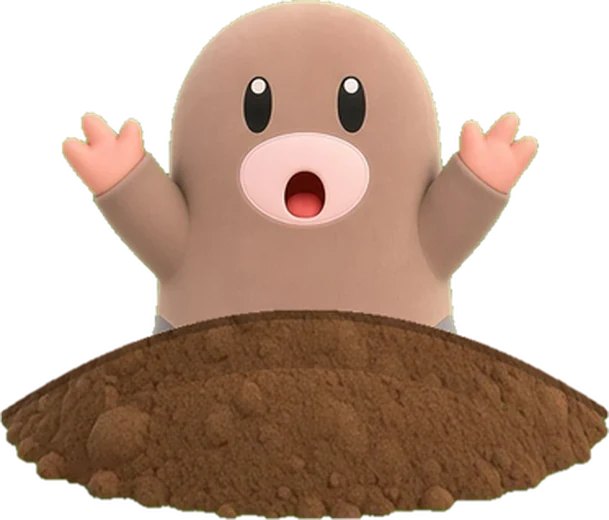
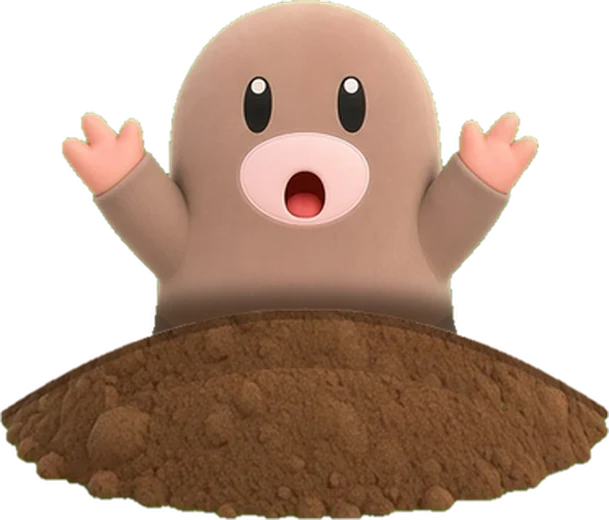
pincopop v1.4: LA tab (14 clips: LA cafés, Christmas/New Year 2026-27 events, Sawtelle Japantown), verified dates; Mogu mound contact shadow; k10 text, LA backgrounds edited from existing original art

Changed region(s): [[0.2496, 0.5231, 0.7488, 0.6462]]

diff --git a/pincopop/js/clips_la.js b/pincopop/js/clips_la.js
@@ -1,0 +1,165 @@
+'use strict';
+// LA tab (v1.4): local LA cafés, Christmas / New Year 2026–27 events and Sawtelle Japantown spots.
+// Every date / address / hour below was checked on the official page on 2026-11-23 (JST); see the v1.4 report for sources.
+// No prices, no ratings. Each clip shows the "check the official site" note (clip.note). Original art, no logos.
+window.CLIPS=window.CLIPS||[];
+const LAN='#0b1534/#3a1d5e',LAS='#fff4e0/#ffd9b8',LAC='#fff6ec/#f3e4d2';
+CLIPS.push(
+// la01 COUNTDOWN: 4 LA holiday light nights (glow)
+{id:'la01',cat:'la',by:'bronny',song:'xmas',seed:5001,bpm:108,likes:226000,cm:9400,look:'glow',note:1,
+ cap:['4 LA holiday light nights to save this season 🎄🌴 #losangeles #holidaylights #LAchristmas','この冬保存したいLAのイルミ4選🎄🌴 #ロサンゼルス #イルミネーション'],
+ snd:['Palm Tree Lights Countdown','ヤシの木イルミ・カウントダウン'],
+ com:[['pinco','#1 is my whole weekend 🛥💗','1位で週末決まり🛥💗'],['prof','Dates match the official pages. Approved.','日程は公式どおり。承認。']],
+ shots:[
+ {d:5,bg:'la_lights',cam:[1.1,1.02,.5,.5,.45,.5],a:[['c_bronny_3',.5,.9,.46,'bob',{in:'pop'}]],fx:[['sparkle',0,5,{x:.5,y:.35,r:.3}]],tx:[[0,5,'4 LA holiday light nights 🎄🌴','LAのイルミ4選 🎄🌴','big',.17]],sx:[[0,'bells']]},
+ {d:6,bg:'la_lights',tr:'whip',cam:[1,1.1,.5,.5,.5,.45],a:[['c_pinco_2',.74,.9,.38,'idle']],fx:[['bokeh',0,6,{cols:['#ffd88a','#ff9ad5']}]],tx:[[0,6,'4','4','num',.2,{x:.25}],[.4,6,'📍 L.A. Zoo Lights','📍 L.A. Zoo Lights（ロサンゼルス動物園）','loc',.36,{x:.45}],[1.2,6,'select nights Nov 20 – Jan 10','11/20〜1/10の指定日の夜','tag',.46]],sx:[[0,'whoosh'],[.4,'pop']]},
+ {d:6,bg:'la_lights',tr:'whip',cam:[1.2,1.25,.7,.3,.4,.4],a:[['c_pooh_1',.72,.9,.38,'bob']],fx:[['sparkle',0,6,{x:.4,y:.45,r:.2}]],tx:[[0,6,'3','3','num',.2,{x:.25}],[.4,6,'📍 Enchanted · Descanso Gardens','📍 デスカンソ・ガーデンズ「Enchanted」','loc',.36,{x:.45}],[1.2,6,'10th year! Nov 22 – Jan 9','10周年！11/22〜1/9','tag',.46]],sx:[[0,'whoosh'],[.4,'pop']]},
+ {d:6,bg:'la_harbor',tr:'whip',cam:[1,1.08,.5,.5,.5,.55],a:[['c_bean_1',.72,.9,.38,'bob']],fx:[['stars',0,6]],tx:[[0,6,'2','2','num',.2,{x:.25}],[.4,6,'📍 Harbor Glow · West Harbor, San Pedro','📍 ハーバー・グロウ（サンペドロ）','loc',.36,{x:.45}],[1.2,6,'nightly Nov 20 – Jan 3','11/20〜1/3 毎晩','tag',.46]],sx:[[0,'whoosh'],[.4,'pop']]},
+ {d:7,bg:'la_harbor',tr:'zoom',cam:[1,1.1,.5,.5,.5,.45],a:[['c_bronny_1',.3,.9,.4,'hop'],['c_pinco_1',.72,.9,.4,'hop']],fx:[['sparkle',0,7,{x:.5,y:.3,r:.3}],['confetti',1,7]],tx:[[0,7,'1','1','num',.2,{x:.25}],[.4,7,'📍 Marina del Rey Holiday Boat Parade','📍 マリナ・デル・レイ ホリデー・ボートパレード','loc',.36,{x:.45,s:.9}],[1.2,7,'Sat Dec 12 · starts with a light show','12/12(土)・ライトショーで開幕','tag',.46]],sx:[[0,'whoosh'],[.4,'pop'],[1.2,'cheer']]}
+]},
+// la02 NIGHT VLOG: L.A. Zoo Lights (REC, typewriter)
+{id:'la02',cat:'la',also:['parent'],by:'pooping',song:'lofi',seed:5002,bpm:84,likes:188000,cm:7100,look:'night',note:1,
+ cap:['family night at L.A. Zoo Lights 🦋✨ plants, pollinators + Ice Age giants in lights #lazoolights #losangeles','家族でL.A. Zoo Lightsへ🦋✨ 植物・虫・氷河期の巨獣が光る #ロサンゼルス #イルミネーション'],
+ snd:['Glow Walk','光のさんぽ'],
+ com:[['max','I would like to meet the Ice Age giants 🐶','氷河期の巨獣に会いたい🐶'],['pinco','saving the closed dates 🙏','休みの日も保存🙏']],
+ shots:[
+ {d:5,bg:'la_lights',cam:[1.15,1.05,.5,.5,.45,.45],a:[['pooping_parent_0',.5,.9,.46,'bob',{in:'pop'}]],fx:[['rec',0,5]],tx:[[0,5,'family night at L.A. Zoo Lights 🦋','家族でL.A. Zoo Lights 🦋','big',.27]],sx:[[0,'shutter']]},
+ {d:6,bg:'la_lights',tr:'cut',cam:[1.3,1.3,.6,.4,.5,.5],a:[['babies_1',.5,.84,.3,'idle']],fx:[['sparkle',0,6,{x:.5,y:.35,r:.25}]],tx:[[0,6,'2026 theme: plants, pollinators and Ice Age giants — all in light','2026年のテーマは植物・ポリネーター・氷河期の巨獣、ぜんぶ光で','type',.22,{cps:24}]],sx:[[0,'type']]},
+ {d:6,bg:'la_lights',tr:'cut',cam:[1.2,1.2,.35,.6,.5,.5],a:[['pooping_parent_1',.5,.9,.44,'talk']],tx:[[0,6,'select nights Nov 20 – Jan 10 · most people spend 60–90 min','11/20〜1/10の指定日・所要時間はだいたい60〜90分','type',.22,{cps:24}]],sx:[[0,'type']]},
+ {d:6,bg:'la_lights',tr:'cut',a:[['pooping_parent_2',.5,.9,.44,'idle']],fx:[['snow',0,6,{n:20}]],tx:[[0,6,'closed: Nov 26, 30 · Dec 1, 7, 14–16, 24, 25, 31 · Jan 4–7','休み：11/26・30、12/1・7・14〜16・24・25・31、1/4〜7','type',.22,{cps:28}]],sx:[[0,'type']]},
+ {d:5,bg:'la_lights',tr:'zoom',a:[['pooping_parent_0',.35,.9,.42,'bob'],['babies_1',.72,.86,.26,'hop']],fx:[['hearts',0,5,{x:.6,y:.5,n:8}]],tx:[[0,5,'quieter Sensory Inclusive night: Tue Dec 8 💙','音や混雑を控えめにした夜：12/8(火) 💙','cap',.22,{wps:3}]],sx:[[0,'aww']]}
+]},
+// la03 ASMR: Enchanted at Descanso Gardens
+{id:'la03',cat:'la',by:'pinco',song:'asmr',seed:5003,bpm:66,likes:154000,cm:5200,look:'asmr',note:1,
+ cap:['whisper tour: Enchanted at Descanso Gardens, 10th year 🌸✨ #descanso #enchanted #asmr','ささやきツアー：デスカンソ・ガーデンズ「Enchanted」10周年🌸✨ #ASMR'],
+ snd:['Forest of Light (whisper)','光の森（ささやき）'],
+ com:[['bean','the koi!!! (quietly)','鯉！！！（小声）'],['asmon','the laser snowfall in California. respect.','カリフォルニアでレーザーの雪。敬意。']],
+ shots:[
+ {d:6,bg:'la_lights',cam:[1.2,1.1,.5,.5,.5,.5],a:[['c_pinco_0',.5,.9,.44,'sway']],fx:[['bokeh',0,6,{cols:['#ffb0d8','#c9a8ff']}]],tx:[[0,6,'🎧 ASMR','🎧 ASMR','pill',.16,{x:.15,s:.7}],[.5,6,'Enchanted at Descanso Gardens, 10 years 🌸','デスカンソ・ガーデンズ「Enchanted」10周年 🌸','cap',.25,{wps:2}]],sx:[[0,'chime']]},
+ {d:7,bg:'la_lights',tr:'cut',cam:[1.4,1.5,.65,.4,.6,.4],fx:[['sparkle',0,7,{x:.5,y:.4,r:.3}]],tx:[[0,7,'new this year: a laser light show with a “snowfall” finale','今年の新作：「雪」がフィナーレのレーザーショー','cap',.25,{wps:2}]],sx:[[0,'sparkle']]},
+ {d:7,bg:'la_lights',tr:'cut',cam:[1.3,1.3,.3,.7,.4,.6],a:[['c_pinco_4',.6,.9,.42,'idle']],fx:[['glow',0,7,{x:.4,y:.6,c:'rgba(255,170,120,.6)'}]],tx:[[0,7,'Giant Koi for the Japanese Garden’s 60th anniversary 🎏','日本庭園60周年を祝う「ジャイアント・コイ」🎏','cap',.25,{wps:2}]],sx:[[0,'chime']]},
+ {d:6,bg:'la_lights',tr:'cut',a:[['c_pinco_2',.5,.9,.44,'sway']],fx:[['stars',0,6]],tx:[[0,6,'Nov 22 – Jan 9 · Holiday Market Dec 2–6 ✨','11/22〜1/9・ホリデーマーケットは12/2〜6 ✨','cap',.25,{wps:2}]],sx:[[0,'chime']]}
+]},
+// la04 POV / duet-style: Harbor Glow
+{id:'la04',cat:'la',by:'bean',song:'synth',seed:5004,bpm:100,likes:132000,cm:4300,note:1,
+ cap:['POV: you said “let’s go see boats” and it turned into Harbor Glow 🛥✨ #sanpedro #harborglow','POV：「船見よう」が「ハーバー・グロウ」になった🛥✨ #サンペドロ'],
+ snd:['Harbor Synthwave','ハーバー・シンセウェーブ'],
+ com:[['bronny','open on Christmas Day too?? say less','クリスマス当日もやってる？了解'],['pooh','are the boats edible','その船食べられる？']],
+ shots:[
+ {d:5,bg:'la_harbor',cam:[1.2,1.05,.5,.5,.5,.5],a:[['c_bean_0',.5,.9,.44,'bob',{in:'pop'}]],tx:[[0,5,'POV: “let’s go see boats” 🛥','POV：「船見に行こう」🛥','big',.24]],sx:[[0,'pop']]},
+ {d:6,bg:'la_harbor',tr:'glitch',cam:[1.4,1.4,.3,.5,.4,.45],fx:[['stars',0,6],['sparkle',0,6,{x:.3,y:.45,r:.2}]],tx:[[0,6,'📍 Harbor Glow · West Harbor, San Pedro','📍 ハーバー・グロウ（ウェストハーバー／サンペドロ）','loc',.24,{x:.5,s:.9}],[1,6,'open every night Nov 20 – Jan 3, holidays included','11/20〜1/3、祝日も含めて毎晩','tag',.34]],sx:[[0,'whoosh']]},
+ {d:6,bg:'la_harbor',tr:'cut',a:[['c_bean_2',.5,.9,.44,'talk']],tx:[[0,6,'Fri–Sun 5:00–10:30 pm · Mon–Thu 5:30–9:30 pm','金〜日 17:00〜22:30・月〜木 17:30〜21:30','tag',.24],[1.5,6,'timed tickets: arrive ~15 min early','時間指定チケット：15分前には到着を','tag',.34]],sx:[[0,'ding']]},
+ {d:5,bg:'la_harbor',tr:'zoom',a:[['c_bean_1',.5,.9,.46,'hop']],fx:[['confetti',0,5]],tx:[[0,5,'Christmas Eve + New Year’s Eve: open till 10:30 pm 🎆','イブと大みそかは22:30まで 🎆','big',.24]],sx:[[0,'cheer']]}
+]},
+// la05 ANIME: Marina del Rey Holiday Boat Parade
+{id:'la05',cat:'la',by:'pinco',song:'anime',seed:5005,bpm:150,likes:171000,cm:6600,look:'anime',note:1,
+ cap:['EPISODE 64: the Holiday Boat Parade ⛵✨ “Hollywood Under The Stars” #marinadelrey #boatparade','第64話：ホリデー・ボートパレード⛵✨「Hollywood Under The Stars」 #マリナデルレイ'],
+ snd:['Sail Henshin','セイル変身'],
+ com:[['party','boats in costumes 🎉🎉','コスプレする船🎉🎉'],['bronny','Westside represent 🌴','ウエストサイド代表🌴']],
+ shots:[
+ {d:7,bg:'la_harbor',cam:[1.2,1,.5,.5,.4,.5],a:[['c_pinco_3',.5,.9,.48,'hop',{in:'b'}]],fx:[['lines',0,7],['speed',0,7]],tx:[[0,7,'EPISODE 64','第64話','manga',.18,{rot:-6}],[2,7,'The Holiday Boat Parade','ホリデー・ボートパレード','big',.3]],sx:[[0,'riser'],[2,'drop']]},
+ {d:7,bg:'la_harbor',tr:'spin',a:[['c_pinco_1',.5,.9,.44,'dance']],fx:[['speed',0,7],['sparkle',0,7,{x:.5,y:.35,r:.35}]],tx:[[0,7,'theme: “Hollywood Under The Stars”!!','テーマは「Hollywood Under The Stars」！！','manga',.2,{rot:4}]],sx:[[0,'whoosh']]},
+ {d:7,bg:'la_harbor',tr:'whip',cam:[1.3,1.3,.3,.7,.5,.5],a:[['c_pinco_4',.3,.9,.42,'hop'],['c_party_2',.7,.9,.4,'hop']],fx:[['lines',0,7,{c:'#ffd0f0'}]],tx:[[0,7,'Saturday, Dec 12!','12月12日（土）！','manga',.2,{rot:-4}],[2,7,'boats in lights + costumes + live music','光る船・仮装・生演奏','tag',.32]],sx:[[0,'drop'],[2,'ding']]},
+ {d:6,bg:'la_harbor',tr:'zoom',a:[['c_pinco_2',.5,.9,.46,'hop']],fx:[['rays',0,6,{c:'#ffe0f6'}],['confetti',1,6]],tx:[[0,6,'TO BE CONTINUED…','つづく…','manga',.2,{rot:-3}]],sx:[[0,'drop'],[1,'cheer']]}
+]},
+// la06 SILENT FILM: Hollywood Christmas Parade
+{id:'la06',cat:'la',by:'asmon',song:'silent',seed:5006,bpm:132,likes:149000,cm:5100,look:'film',bw:1,note:1,
+ cap:['a silent film about the Hollywood Christmas Parade 🎞🎄 Sun Nov 29 #hollywood #christmasparade','サイレント映画で紹介：ハリウッド・クリスマス・パレード🎞🎄 11/29(日) #ハリウッド'],
+ snd:['Ragtime on the Boulevard','大通りのラグタイム'],
+ com:[['bean','the title cards 😭','字幕カード😭'],['pinco','toys for tots 🥹💗','おもちゃの寄付🥹💗']],
+ shots:[
+ {d:6,bg:'#111/#222',dots:0,tx:[[0,6,'“THE PARADE”\na Hollywood tradition since 1928','「パレード」\n1928年から続くハリウッドの伝統','serif',.4]],sx:[[0,'tick']]},
+ {d:7,bg:'stage',tr:'cut',a:[['c_asmon_2',.45,.9,.44,'bob',{mv:[.6,.9],mvd:7}]],tx:[[0,7,'Act I. A former villain hears about a parade.','第一幕：元・悪役、パレードのうわさを聞く。','serif',.2,{s:.85}]],sx:[[0,'boing']]},
+ {d:6,bg:'#111/#222',dots:0,tr:'cut',tx:[[0,6,'The 94th Hollywood Christmas Parade.\nSunday, November 29, 2026.','第94回ハリウッド・クリスマス・パレード\n2026年11月29日（日）','serif',.4]],sx:[[0,'tick']]},
+ {d:7,bg:'stage',tr:'cut',a:[['c_asmon_4',.5,.9,.44,'hop']],fx:[['confetti',0,7]],tx:[[0,7,'Act II. He learns it supports Toys for Tots.','第二幕：「Toys for Tots」支援と知る。','serif',.2,{s:.85}]],sx:[[0,'cheer']]},
+ {d:5,bg:'#111/#222',dots:0,tr:'cut',tx:[[0,5,'He is now a good guy.\nTHE END','そして彼は善人になった。\n完','serif',.4]],sx:[[0,'tick']]}
+]},
+// la07 SPLIT SCREEN: NYELA expectation vs reality
+{id:'la07',cat:'la',by:'bronny',song:'comedy',seed:5007,bpm:116,likes:197000,cm:8800,note:1,
+ cap:['New Year’s Eve in DTLA: expectation vs reality 🎆 NYELA at Grand Park, free with RSVP #NYELA #grandpark','DTLAの大みそか：理想vs現実🎆 グランドパークのNYELA（無料・要RSVP） #NYELA'],
+ snd:['Countdown Crew','カウントダウン隊'],
+ com:[['pooh','30+ food vendors?? I’m going','屋台30以上？行く'],['asmon','the worries trash bin is genius','悩みを捨てるゴミ箱、天才']],
+ shots:[
+ {d:5,bg:'#0b1534/#3a1d5e',dots:0,a:[['c_bronny_2',.5,.9,.46,'bob',{in:'pop'}]],fx:[['stars',0,5]],tx:[[0,5,'NYE in DTLA 🎆','DTLAで年越し 🎆','big',.22],[1,5,'Gloria Molina Grand Park’s NYELA','グロリア・モリーナ・グランドパーク「NYELA」','tag',.33]],sx:[[0,'riser']]},
+ {d:9,bg:'#111/#222',dots:0,tr:'wipe',panes:[{r:[0,0,.5,1],bg:LAN,a:[['c_bronny_4',.5,.92,.44,'dance']],fx:[['confetti',0,9],['sparkle',0,9,{x:.5,y:.3}]],tx:[[0,9,'EXPECTATION','理想','pill',.16]]},{r:[.5,0,.5,1],bg:LAN,a:[['c_pooh_2',.5,.92,.44,'bob'],['p_taco',.75,.6,.1,'float',{sh:0}]],fx:[['steam',0,9,{x:.7,y:.55}]],tx:[[0,9,'REALITY','現実','pill',.16],[2,9,'still in the\nfood line','まだ屋台の\n行列','tag',.3,{x:.4}]]}],sx:[[0,'swish'],[2,'pop'],[3,'laugh']]},
+ {d:6,bg:LAN,dots:0,tr:'cut',a:[['c_bronny_1',.5,.9,.44,'talk']],tx:[[0,6,'Thu Dec 31, 8 pm – 1 am · free, RSVP online','12/31(木) 20:00〜翌1:00・無料、オンラインでRSVP','tag',.22],[1.5,6,'alcohol-free · midnight art show on City Hall','アルコールなし・0時に市庁舎へアート投影','tag',.32]],sx:[[0,'ding']]},
+ {d:5,bg:LAN,dots:0,tr:'zoom',a:[['c_bronny_3',.35,.9,.42,'hop'],['c_pooh_3',.7,.9,.4,'hop']],fx:[['confetti',0,5],['stars',0,5]],tx:[[0,5,'3… 2… 1… HAPPY 2027! 🎉','3…2…1…ハッピー2027！🎉','big',.22]],sx:[[0,'cheer']]}
+]},
+// la08 VHS home video: Rose Parade New Year's Day
+{id:'la08',cat:'la',also:['parent'],by:'pooh',song:'synth',seed:5008,bpm:96,likes:163000,cm:5900,look:'vhs',vhsDate:'FRI.JAN.01 2027',note:1,
+ cap:['New Year’s Day plan: the 138th Rose Parade in Pasadena 🌹 theme “Welcome” #roseparade #pasadena','元日の予定：パサデナの第138回ローズパレード🌹 テーマは「Welcome」 #ローズパレード'],
+ snd:['Float Tape ’27','フロートテープ’27'],
+ com:[['pinco','floats made of flowers 😭🌹','花でできたフロート😭🌹'],['pooping','camping on the curb with snacks: yes','おやつ持って沿道待機：する']],
+ shots:[
+ {d:5,bg:'promenade',a:[['c_pooh_3',.5,.9,.46,'bob']],tx:[[0,5,'NEW YEAR’S DAY TAPE','元日のテープ','retro',.27]],sx:[[0,'tape']]},
+ {d:6,bg:'promenade',tr:'glitch',a:[['c_pooh_0',.5,.9,.44,'talk']],tx:[[0,6,'the 138th Rose Parade · Fri Jan 1, 2027','第138回ローズパレード・2027年1月1日（金）','retro',.27,{s:.85}],[2.5,6,'steps off at 8 am (Pacific)','朝8時（太平洋時間）スタート','retro',.4,{s:.85}]],sx:[[0,'scratch']]},
+ {d:6,bg:LAS,tr:'glitch',a:[['p_heart',.3,.6,.12,'float',{sh:0}],['p_star',.7,.6,.12,'float',{sh:0}]],fx:[['confetti',0,6]],tx:[[0,6,'this year’s theme: “Welcome” 🌹','今年のテーマ：「Welcome」🌹','retro',.27,{s:.85}],[2.5,6,'floats, marching bands + horses on Colorado Blvd','コロラド大通りにフロート・マーチングバンド・馬','retro',.4,{s:.8}]],sx:[[0,'tape']]},
+ {d:5,bg:'promenade',tr:'glitch',a:[['c_pooh_1',.35,.9,.42,'hop'],['babies_1',.72,.86,.26,'bob']],tx:[[0,5,'happy new year from Pasadena 🌹','パサデナからあけおめ 🌹','retro',.27]],sx:[[0,'cheer']]}
+]},
+// la09 TIER LIST: holiday + NYE 2026–27 planner
+{id:'la09',cat:'la',by:'pinco',song:'comedy',seed:5009,bpm:112,likes:181000,cm:10400,note:1,
+ cap:['LA holiday season tier list 2026–27 🌴🎄 (by vibe, not quality) #LA #tierlist','LAホリデーシーズン格付け2026–27🌴🎄（気分で分類） #格付け'],
+ snd:['Tier Time','格付けタイム'],
+ com:[['bronny','putting the boat parade in “chaos” is accurate','ボートパレードが「カオス」なの正しい'],['bean','I am cozy tier','ぼくはほっこり枠']],
+ shots:[
+ {d:4,bg:'la_lights',a:[['c_pinco_5',.5,.9,.46,'bob',{in:'pop'}]],tx:[[0,4,'LA holiday tier list 🌴🎄','LAホリデー格付け 🌴🎄','big',.2],[1,4,'(by vibe, not quality)','（気分で分類・優劣じゃないよ）','tag',.3]],sx:[[0,'pop']]},
+ {d:12,bg:'#1d1430/#3a2350',dots:0,tr:'whip',fx:[['tier',0,12,{rows:[['cozy','ほっこり'],['sparkly','キラキラ'],['family','ファミリー'],['chaos','カオス']],y:.22,rh:.11,items:[['bg_la_lights',1,.6],['bg_la_harbor',3,2],['bg_stage',3,3.4],['bg_promenade',2,4.8],['bg_la_cafe',0,6.2]]}]],tx:[[.6,2,'Descanso “Enchanted” (Nov 22–Jan 9)','デスカンソ「Enchanted」（11/22〜1/9）','tag',.72],[2,3.4,'Boat Parade (Sat Dec 12)','ボートパレード（12/12）','tag',.72],[3.4,4.8,'NYELA (Dec 31, free + RSVP)','NYELA（12/31・無料／要RSVP）','tag',.72],[4.8,6.2,'Rose Parade (Jan 1)','ローズパレード（1/1）','tag',.72],[6.2,8,'a latte the morning after','翌朝のラテ','tag',.72],[8,12,'save for your plans 📌','予定用に保存📌','tag',.72]],sx:[[.6,'pop'],[2,'pop'],[3.4,'pop'],[4.8,'pop'],[6.2,'pop']]}
+]},
+// la10 ASMR café: Intelligentsia Venice
+{id:'la10',cat:'la',also:['food'],by:'bronny',song:'asmr',seed:5010,bpm:66,likes:142000,cm:4700,look:'asmr',note:1,
+ cap:['ASMR coffee morning on Abbot Kinney before the courts ☕🌴 Intelligentsia Venice #venice #coffee','コートの前にアボット・キニーでコーヒーASMR☕🌴 #ベニス #カフェ'],
+ snd:['Patio Pour (ASMR)','パティオで一杯（ASMR）'],
+ com:[['pinco','the patio 😭','パティオ😭'],['max','dogs on the patio? asking for me','パティオに犬OK？自分用の質問']],
+ shots:[
+ {d:6,bg:'la_cafe',cam:[1.15,1.05,.5,.5,.5,.55],a:[['c_bronny_0',.5,.9,.44,'sway']],tx:[[0,6,'🎧 ASMR','🎧 ASMR','pill',.16,{x:.15,s:.7}],[.5,6,'coffee before the courts ☕','コートの前にコーヒー ☕','cap',.25,{wps:2}]],sx:[[0,'pour']]},
+ {d:6,bg:LAC,dots:0,tr:'cut',a:[['p_mug',.5,.58,.18,'float',{sh:0}]],fx:[['steam',0,6,{x:.5,y:.46}]],tx:[[0,6,'📍 Intelligentsia · 1331 Abbot Kinney Blvd, Venice','📍 インテリジェンシア・ベニス（アボット・キニー通り1331）','cap',.25,{wps:2}]],sx:[[0,'slurp']]},
+ {d:6,bg:'la_cafe',tr:'cut',cam:[1.3,1.35,.6,.5,.65,.6],tx:[[0,6,'open daily 6 am – 5 pm · patio + free wifi','毎日6:00〜17:00・パティオ席と無料Wi-Fi','cap',.25,{wps:2}]],sx:[[0,'pour']]},
+ {d:5,bg:'boardwalk',tr:'cut',a:[['c_bronny_3',.5,.9,.44,'bob']],tx:[[0,5,'…ok now the courts 🏀','…よし、コート行こ 🏀','cap',.25,{wps:2}]],sx:[[0,'chime']]}
+]},
+// la11 COFFEE CRAWL (typewriter list): Maru Coffee + Go Get Em Tiger
+{id:'la11',cat:'la',also:['food'],by:'asmon',song:'lofi',seed:5011,bpm:84,likes:126000,cm:4100,note:1,
+ cap:['an ex-villain’s LA coffee crawl ☕ Maru Coffee + Go Get Em Tiger #LAcoffee #coffeecrawl','元・悪役のLAコーヒーはしご☕ マル・コーヒー＋ゴー・ゲット・エム・タイガー #LAカフェ'],
+ snd:['Pour-Over Plot','ハンドドリップの陰謀'],
+ com:[['bean','Grand Central Market + coffee = my whole day','グランド・セントラル・マーケット＋コーヒー＝1日終わる'],['prof','Hours match the official pages.','営業時間は公式どおり。']],
+ shots:[
+ {d:5,bg:'la_cafe',a:[['c_asmon_1',.5,.9,.46,'bob',{in:'pop'}]],tx:[[0,5,'an ex-villain’s LA coffee crawl ☕','元・悪役のLAコーヒーはしご ☕','big',.2]],sx:[[0,'evil']]},
+ {d:7,bg:LAC,dots:0,tr:'slide',a:[['p_cup',.5,.62,.16,'float',{sh:0}]],tx:[[0,7,'📍 Maru Coffee','📍 マル・コーヒー','loc',.2,{x:.5}],[.6,7,'Los Feliz · 1936 Hillhurst Ave · Mon–Sat 7–5, Sun 8–5','ロスフェリズ（ヒルハースト通り1936）・月〜土7〜17時、日8〜17時','type',.3,{cps:26}],[3.8,7,'also Arts District + Beverly Hills','アーツ・ディストリクトとビバリーヒルズにも','type',.42,{cps:26}]],sx:[[0,'type']]},
+ {d:7,bg:LAC,dots:0,tr:'slide',a:[['p_mug',.5,.62,.16,'float',{sh:0}]],tx:[[0,7,'📍 Go Get Em Tiger','📍 ゴー・ゲット・エム・タイガー','loc',.2,{x:.5}],[.6,7,'the first one opened on Larchmont in 2013','1号店は2013年にラーチモントで開店','type',.3,{cps:26}],[3.5,7,'Larchmont: weekdays 6:30 am–6 pm, weekends 7 am–6 pm','ラーチモント店：平日6:30〜18時、週末7〜18時','type',.42,{cps:26}]],sx:[[0,'type']]},
+ {d:6,bg:LAC,dots:0,tr:'slide',a:[['p_cup',.35,.62,.13,'float',{sh:0}],['p_mug',.65,.62,.13,'float',{sh:0}]],tx:[[0,6,'+ a bar inside Grand Central Market (8–5 daily)','＋グランド・セントラル・マーケット内にも（毎日8〜17時）','type',.3,{cps:26}]],sx:[[0,'type']]},
+ {d:5,bg:'la_cafe',tr:'zoom',a:[['c_asmon_5',.5,.9,.46,'shake']],fx:[['sweat',0,5,{x:.42,y:.5}]],tx:[[0,5,'caffeine level: villain again 😈','カフェイン量：また悪役に😈','big',.22]],sx:[[0,'evil']]}
+]},
+// la12 SAWTELLE food crawl (vlog)
+{id:'la12',cat:'la',also:['food'],by:'bean',song:'sweet',seed:5012,bpm:104,likes:208000,cm:9600,note:1,
+ cap:['Sawtelle Japantown crawl: tsukemen → cream puffs → ice cream 🍜🍦 #sawtelle #japantown #LAfood','ソーテル・ジャパンタウンはしご：つけ麺→シュークリーム→アイス🍜🍦 #ソーテル'],
+ snd:['Sawtelle Stroll','ソーテルさんぽ'],
+ com:[['pooh','three stops is a light lunch','3軒は軽めのランチ'],['bronny','tsukemen before games now','試合前はつけ麺に決定']],
+ shots:[
+ {d:5,bg:'la_sawtelle',cam:[1.1,1.02,.5,.5,.5,.55],a:[['c_bean_1',.5,.9,.44,'bob',{in:'pop'}]],tx:[[0,5,'Sawtelle Japantown crawl 🍜','ソーテル・ジャパンタウンはしご 🍜','big',.2],[1,5,'West LA','ウエストLA','tag',.3]],sx:[[0,'pop']]},
+ {d:6,bg:LAS,dots:0,tr:'whip',a:[['p_ramen',.5,.76,.17,'float',{sh:0}]],fx:[['steam',0,6,{x:.5,y:.68}]],tx:[[0,6,'1','1','num',.2,{x:.25}],[.4,6,'📍 Tsujita Artisan Noodle','📍 つじ田','loc',.36,{x:.45}],[1.2,6,'tsukemen · 2057 Sawtelle Blvd','つけ麺・ソーテル通り2057','tag',.46],[2,6,'Sun–Thu 11–10 · Fri–Sat 11–10:30','日〜木11〜22時・金土11〜22:30','tag',.54]],sx:[[0,'whoosh'],[.4,'slurp']]},
+ {d:6,bg:LAS,dots:0,tr:'whip',a:[['c_bean_2',.5,.92,.3,'bob']],tx:[[0,6,'2','2','num',.2,{x:.25}],[.4,6,'📍 Beard Papa’s (Sawtelle)','📍 ビアードパパ（ソーテル）','loc',.36,{x:.45}],[1.2,6,'cream puffs · 2130 Sawtelle Blvd','シュークリーム・ソーテル通り2130','tag',.46],[2,6,'Mon–Thu 10:30–10 · Fri–Sun 10–10','月〜木10:30〜22時・金〜日10〜22時','tag',.54]],sx:[[0,'whoosh'],[.4,'chomp']]},
+ {d:6,bg:LAS,dots:0,tr:'whip',a:[['p_parfait',.5,.76,.17,'float',{sh:0}]],tx:[[0,6,'3','3','num',.2,{x:.25}],[.4,6,'📍 Wanderlust Creamery','📍 ワンダーラスト・クリーマリー','loc',.36,{x:.45}],[1.2,6,'travel-inspired ice cream, Sawtelle shop','旅がテーマのアイス・ソーテル店','tag',.46]],sx:[[0,'whoosh'],[.4,'pop']]},
+ {d:5,bg:'la_sawtelle',tr:'zoom',a:[['c_bean_0',.5,.9,.44,'wiggle']],fx:[['hearts',0,5,{x:.5,y:.5,n:8}]],tx:[[0,5,'no arms. full heart. 🫛','腕はない。心は満タン。🫛','big',.22]],sx:[[0,'aww']]}
+]},
+// la13 Giant Robot (shop + gallery) — clay stop-motion
+{id:'la13',cat:'la',by:'mogu',song:'clay',seed:5013,bpm:110,likes:118000,cm:3800,look:'clay',note:1,
+ cap:['stop-motion: Mogu tunnels to Giant Robot on Sawtelle 🤖🎨 #sawtelle #giantrobot #stopmotion','ストップモーション：モグ、ソーテルのジャイアント・ロボットまで掘り進む🤖🎨'],
+ snd:['Clay Tunnel','ねんどトンネル'],
+ com:[['pinco','he tunneled the whole way 😭','ずっと掘ってきたの😭'],['asmon','closed Mondays. noted.','月曜休み。メモした。']],
+ shots:[
+ {d:6,bg:'la_sawtelle',a:[['c_mogu_0',.35,.9,.34,'bob']],tx:[[0,6,'destination: Sawtelle 🤖','目的地：ソーテル 🤖','cap',.25]],sx:[[0,'pop']]},
+ {d:6,bg:'la_sawtelle',tr:'cut',cam:[1.2,1.2,.4,.6,.5,.6],a:[['c_mogu_2',.5,.9,.3,'hop']],tx:[[0,6,'📍 Giant Robot Store · 2015 Sawtelle Blvd','📍 ジャイアント・ロボット・ストア（ソーテル通り2015）','cap',.25]],sx:[[0,'squeak']]},
+ {d:6,bg:'la_sawtelle',tr:'cut',a:[['c_mogu_4',.5,.9,.3,'shake']],tx:[[0,6,'open Tue–Sun, noon–6 pm · closed Mondays','火〜日 12:00〜18:00・月曜休み','cap',.25]],sx:[[0,'squeak']]},
+ {d:6,bg:'la_sawtelle',tr:'cut',cam:[1.1,1.15,.6,.4,.5,.5],a:[['c_mogu_5',.5,.9,.3,'bob']],fx:[['sparkle',0,6,{x:.5,y:.4}]],tx:[[0,6,'the gallery is right next door (Thu–Sun)','ギャラリーはすぐ隣（木〜日）','cap',.25]],sx:[[0,'sparkle']]}
+]},
+// la14 Sawtelle dessert weekend (B Sweet is Fri–Sun only) — Baby Pinco & Pooh babysitting, split
+{id:'la14',cat:'la',also:['parent'],by:'pooh',song:'parent',seed:5014,bpm:100,likes:137000,cm:4600,note:1,
+ cap:['babysitting on Sawtelle: dessert stop planning 🍰 (B Sweet is weekends only!) #sawtelle #dessert','ソーテルでベビーシッター：デザート計画🍰（B Sweetは週末だけ！）'],
+ snd:['Dessert Detour','デザート寄り道'],
+ com:[['pinco','she pointed at EVERYTHING 😭','全部指さしてる😭'],['pooping','weekend plan: confirmed','週末の予定：決定']],
+ shots:[
+ {d:5,bg:'la_sawtelle',a:[['c_pooh_0',.4,.9,.44,'bob'],['babies_0',.75,.86,.26,'hop']],tx:[[0,5,'babysitting on Sawtelle 🍰','ソーテルでベビーシッター 🍰','big',.2]],sx:[[0,'giggle']]},
+ {d:9,bg:'#111/#222',dots:0,tr:'wipe',panes:[{r:[0,0,.5,1],bg:LAS,a:[['p_cupcake',.5,.6,.2,'float',{sh:0}]],tx:[[0,9,'WEEKDAY','平日','pill',.16],[1,9,'B Sweet:\nclosed Mon–Thu','B Sweet：\n月〜木は休み','tag',.32,{x:.5,s:.85}]]},{r:[.5,0,.5,1],bg:LAS,a:[['p_cupcake',.5,.6,.2,'pulse',{sh:0}]],fx:[['sparkle',0,9,{x:.5,y:.55}]],tx:[[0,9,'WEEKEND','週末','pill',.16],[1,9,'Fri 6–11pm\nSat 12–11pm\nSun 12–10pm','金18〜23時\n土12〜23時\n日12〜22時','tag',.32,{x:.5,s:.85}]]}],sx:[[0,'swish'],[1,'ding']]},
+ {d:6,bg:'la_sawtelle',tr:'cut',a:[['babies_0',.5,.86,.3,'hop']],fx:[['hearts',0,6,{x:.5,y:.45,n:6}]],tx:[[0,6,'📍 B Sweet Dessert Bar · 2005 Sawtelle Blvd','📍 B Sweet Dessert Bar（ソーテル通り2005）','tag',.22]],sx:[[0,'aww']]},
+ {d:5,bg:'la_sawtelle',tr:'zoom',a:[['c_pooh_2',.4,.9,.44,'shake'],['babies_0',.75,.86,.26,'bob']],fx:[['sweat',0,5,{x:.36,y:.5}]],tx:[[0,5,'(the dessert was for her. I ate it.)','（彼女用のデザート。ぼくが食べた）','cap',.22,{wps:3}]],sx:[[0,'chomp']]}
+]}
+);

diff --git a/pincopop/js/data.js b/pincopop/js/data.js
@@ -21,11 +21,12 @@ const POOL={
  lng:[['prof','Pronunciation practice: say it out loud 3 times.','発音練習：声に出して3回どうぞ。'],['bean','I learned a new word. I will use it wrong today.','新しい言葉を覚えた。今日まちがえて使う。'],['pinco','saving for my Tokyo trip 🗼','東京旅行用に保存🗼'],['bronny','sumimasen is a cheat code','すみませんは万能'],['mogu','practicing from underground 🕳','地下で練習中🕳'],['kaise','the subtitles in both languages 🙌','両方の字幕ありがたい🙌'],['pooh','I say itadakimasu before every pancake','パンケーキの前に毎回いただきます'],['party','learning together = party 🎉','いっしょに勉強＝パーティー🎉']],
  couple:[['kaise','he is learning 💕','彼、成長中💕'],['asmon','this is accurate and I feel attacked','正確すぎて刺さる'],['pinco','couple goals 😭💕','理想のカップル😭💕'],['pooping','sending this to my wife','妻に送る'],['party','S tier couple 🎉','Sランクカップル🎉'],['bean','I would hold hands but','手をつなぎたいけど'],['prof','Communication research supports this.','コミュニケーション研究的にも正しい。'],['max','I support this relationship 🐶','このふたりを応援する🐶']],
  tokyo:[['pinco','saving this for the weekend 🗼💕','週末用に保存🗼💕'],['kaise','date night list: updated ✅','デートリスト更新✅'],['pooh','is there food there (asking for me)','そこ食べ物ある？（自分用）'],['bronny','bring a scarf fr 🧣','マフラー必須🧣'],['prof','I checked the official dates. Accurate.','公式の日程を確認しました。正確です。'],['bean','I went. I could not hold the cocoa.','行った。ココアが持てなかった。'],['party','LIGHTS = PARTY 🎉✨','光＝パーティー🎉✨'],['mogu','I can see the lights from my hole 🕳✨','穴から光が見える🕳✨'],['asmon','…fine. it was beautiful.','…まあ、きれいだった。'],['max','can dogs come? 🐶','犬も行ける？🐶']],
+ la:[['bronny','Westside 🌴 saving this','ウエストサイド🌴 保存した'],['pinco','weekend plans: sorted 💗','週末の予定決まった💗'],['pooh','is there food there (asking for me)','そこ食べ物ある？（自分用）'],['asmon','checked the official page. respect.','公式ページ確認した。えらい。'],['bean','I will go. slowly. no arms.','行く。ゆっくり。腕なしで。'],['party','🌴🎉🌴','🌴🎉🌴']],
  parent:[['pooping','this is my house every day','うちの毎日そのもの'],['pinco','the babies 😭💕','赤ちゃんたち😭💕'],['pooh','babysitting is harder than cooking','ベビーシッターは料理より大変'],['max','I can help 🐶','手伝えるよ🐶'],['party','baby party when?','ベビーパーティーいつ？'],['bean','I was a baby once. tiny pea.','ぼくも昔は赤ちゃんだった。ちっちゃい豆。'],['prof','Parenting is 90% snacks, studies show','研究によると子育ての9割はおやつ'],['bronny','dad mode activated','パパモード起動']],
  makeup:[['pinco','the blend 😍','このぼかし😍'],['asmon','I taught her that','それ俺が教えた'],['bean','I tried. it went everywhere.','やってみた。全部についた。'],['party','add more glitter','ラメもっと'],['pooh','do it on me next','次はぼくにやって'],['bronny','skin is glowing fr','肌つやつやだ'],['mogu','what if I contour my nose','鼻をシェーディングしたら？'],['prof','The shimmer refracts light beautifully','ラメの光の屈折が美しい']],
 };
 const STR={
- en:{mine:'Your collection',savedV:'Saved',likedV:'Liked',noSaved:'Nothing saved yet. Tap ☆ on a video to save it here.',noLiked:'No liked videos yet. Tap ♡ or double-tap a video to like it.',back:'Back',foryou:'For you',food:'Food',comedy:'Comedy',parent:'Parenting',makeup:'Makeup',preg:'Pregnancy',lng:'Language',couple:'Couples',tokyo:'Tokyo',chk:'Dates, hours and menus can change. Check the official site or the shop before you go.',nomed:'Not medical advice. Ask your doctor or midwife.',secret:'Bloopers',
+ en:{la:'LA',mine:'Your collection',savedV:'Saved',likedV:'Liked',noSaved:'Nothing saved yet. Tap ☆ on a video to save it here.',noLiked:'No liked videos yet. Tap ♡ or double-tap a video to like it.',back:'Back',foryou:'For you',food:'Food',comedy:'Comedy',parent:'Parenting',makeup:'Makeup',preg:'Pregnancy',lng:'Language',couple:'Couples',tokyo:'Tokyo',chk:'Dates, hours and menus can change. Check the official site or the shop before you go.',nomed:'Not medical advice. Ask your doctor or midwife.',secret:'Bloopers',
   follow:'Follow',following:'Following',more:'more',less:'less',orig:'Original audio',sound:'Tap for sound',
   comments:'Comments',addc:'Add a comment…',post:'Post',share:'Share',sendto:'Send to',copy:'Copy link',sharevia:'Share…',save:'Save',saved:'Saved',unsave:'Remove from saved',nope:'Not interested',
   copied:'Link copied',sentto:'Sent to {n}',savedT:'Saved to your collection',unsavedT:'Removed from saved',nopeT:'Got it. You will see fewer like this.',
@@ -33,7 +34,7 @@ const STR={
   allgames:'All games',reset:'Reset likes and saves',resetT:'Likes and saves cleared',reply:'Reply',you:'you',now:'now',liked:'Liked',paused:'Paused',
   about:'PincoPop is a LANZAGAMES app. Every clip stars the gang and is made in the app.',updated:'New clips are here. Tap to refresh',swipe:'Swipe up for more',loading:'Loading',
   autoT:'Moves to the next clip when one ends',views:'views',creator:'Creator'},
- ja:{mine:'コレクション',savedV:'保存済み',likedV:'いいね',noSaved:'まだ保存した動画はありません。動画の☆をタップするとここに保存されます。',noLiked:'まだ「いいね」した動画はありません。♡をタップするか、ダブルタップでいいね。',back:'戻る',foryou:'おすすめ',food:'フード',comedy:'お笑い',parent:'子育て',makeup:'メイク',preg:'マタニティ',lng:'語学',couple:'カップル',tokyo:'東京',chk:'日程・営業時間・メニューは変わることがあります。お出かけ前に公式サイトやお店でご確認ください。',nomed:'医療アドバイスではありません。医師・助産師にご相談ください。',secret:'NG集',
+ ja:{la:'LA',mine:'コレクション',savedV:'保存済み',likedV:'いいね',noSaved:'まだ保存した動画はありません。動画の☆をタップするとここに保存されます。',noLiked:'まだ「いいね」した動画はありません。♡をタップするか、ダブルタップでいいね。',back:'戻る',foryou:'おすすめ',food:'フード',comedy:'お笑い',parent:'子育て',makeup:'メイク',preg:'マタニティ',lng:'語学',couple:'カップル',tokyo:'東京',chk:'日程・営業時間・メニューは変わることがあります。お出かけ前に公式サイトやお店でご確認ください。',nomed:'医療アドバイスではありません。医師・助産師にご相談ください。',secret:'NG集',
   follow:'フォロー',following:'フォロー中',more:'続きを読む',less:'閉じる',orig:'オリジナル音源',sound:'タップで音声オン',
   comments:'コメント',addc:'コメントを追加…',post:'投稿',share:'シェア',sendto:'送信先',copy:'リンクをコピー',sharevia:'共有…',save:'保存',saved:'保存済み',unsave:'保存を解除',nope:'興味なし',
   copied:'リンクをコピーしました',sentto:'{n}に送信しました',savedT:'コレクションに保存しました',unsavedT:'保存を解除しました',nopeT:'了解です。似た動画を減らします。',

diff --git a/pincopop/index.html b/pincopop/index.html
@@ -9,8 +9,8 @@
 <link rel="icon" href="icon-192.png">
 <link rel="apple-touch-icon" href="apple-touch-icon.png">
 <link rel="manifest" href="manifest.json">
-<link rel="stylesheet" href="style.css?v=1.3.2">
-<script>window.__BUILD__='v1.3.2';</script>
+<link rel="stylesheet" href="style.css?v=1.4.0">
+<script>window.__BUILD__='v1.4.0';</script>
 </head>
 <body>
 <div id="app">
@@ -29,24 +29,25 @@
  <div id="toast"></div>
  <div id="splash"><div class="logo"><div class="mark"></div><div class="word"><span class="w1">Pinco</span><span class="w2">Pop</span></div><div class="by">a LANZAGAMES app</div></div><div class="spin"></div></div>
 </div>
-<script src="js/audio.js?v=1.3.2"></script>
-<script src="js/render.js?v=1.3.2"></script>
-<script src="js/data.js?v=1.3.2"></script>
-<script src="js/clips_food.js?v=1.3.2"></script>
-<script src="js/clips_comedy.js?v=1.3.2"></script>
-<script src="js/clips_parent.js?v=1.3.2"></script>
-<script src="js/clips_makeup.js?v=1.3.2"></script>
-<script src="js/clips_video.js?v=1.3.2"></script>
-<script src="js/clips_preg.js?v=1.3.2"></script>
-<script src="js/clips_lang.js?v=1.3.2"></script>
-<script src="js/clips_uehara.js?v=1.3.2"></script>
-<script src="js/clips_couple.js?v=1.3.2"></script>
-<script src="js/clips_tokyo.js?v=1.3.2"></script>
-<script src="js/clips_local.js?v=1.3.2"></script>
-<script src="js/clips_styles.js?v=1.3.2"></script>
-<script src="js/clips_baby.js?v=1.3.2"></script>
-<script src="js/curate.js?v=1.3.2"></script>
-<script src="js/app.js?v=1.3.2"></script>
+<script src="js/audio.js?v=1.4.0"></script>
+<script src="js/render.js?v=1.4.0"></script>
+<script src="js/data.js?v=1.4.0"></script>
+<script src="js/clips_food.js?v=1.4.0"></script>
+<script src="js/clips_comedy.js?v=1.4.0"></script>
+<script src="js/clips_parent.js?v=1.4.0"></script>
+<script src="js/clips_makeup.js?v=1.4.0"></script>
+<script src="js/clips_video.js?v=1.4.0"></script>
+<script src="js/clips_preg.js?v=1.4.0"></script>
+<script src="js/clips_lang.js?v=1.4.0"></script>
+<script src="js/clips_uehara.js?v=1.4.0"></script>
+<script src="js/clips_couple.js?v=1.4.0"></script>
+<script src="js/clips_tokyo.js?v=1.4.0"></script>
+<script src="js/clips_local.js?v=1.4.0"></script>
+<script src="js/clips_styles.js?v=1.4.0"></script>
+<script src="js/clips_baby.js?v=1.4.0"></script>
+<script src="js/clips_la.js?v=1.4.0"></script>
+<script src="js/curate.js?v=1.4.0"></script>
+<script src="js/app.js?v=1.4.0"></script>
 <script>(function(){var B=window.__BUILD__;function nv(s){return String(s||'').replace(/[^0-9.]/g,'').split('.').map(Number)}
 function newer(a,b){a=nv(a);b=nv(b);for(var i=0;i<Math.max(a.length,b.length);i++){var x=a[i]||0,y=b[i]||0;if(x!==y)return x>y}return false}
 function chk(){try{fetch('version.json?t='+Date.now(),{cache:'no-store'}).then(function(r){return r.ok?r.json():null}).then(function(j){if(j&&newer(j.build,B)&&!document.getElementById('updbar')){var d=document.createElement('div');d.id='updbar';d.textContent=(window.APP&&APP.T)?APP.T('updated'):'New clips are here. Tap to refresh';d.style.cssText='position:fixed;left:50%;top:calc(58px + env(safe-area-inset-top));transform:translateX(-50%);z-index:99998;background:#ff4f9a;color:#fff;border:2px solid #fff;border-radius:999px;padding:10px 18px;font:800 15px system-ui,sans-serif;box-shadow:0 4px 14px #0006;cursor:pointer;pointer-events:auto;white-space:nowrap';d.onclick=function(e){e.stopPropagation();location.reload()};d.addEventListener('touchstart',function(e){e.stopPropagation();location.reload()},{passive:true});document.body.appendChild(d)}}).catch(function(){})}catch(e){}}

diff --git a/pincopop/js/clips_couple.js b/pincopop/js/clips_couple.js
@@ -107,7 +107,7 @@ CLIPS.push(
  com:[['kaise','okay I cried 😭','泣いた😭'],['party','S TIER COUPLE 🎉','Sランクカップル🎉']],
  shots:[
  {d:5,bg:'stream',a:[['c_asmon_0',.5,.9,.5,'bob',{in:'pop'}]],tx:[[0,5,'Making HER a tier list for once 📋💕','今回は俺が彼女のために格付け 📋💕','big',.17]],sx:[[0,'pop']]},
- {d:8,bg:KBG,tr:'whip',a:[['p_tier',.5,.86,.16,'float',{sh:0}]],tx:[[0,8,'Reasons I love Kaise','カイセの好きなところ','pill',.18],[1.2,8,'her laugh: S','笑い声：S','tag',.28],[2.4,8,'her tier lists: S','格付けセンス：S','tag',.37],[3.6,8,'the watch: S','時計のプレゼント：S','tag',.46]],sx:[[1.2,'ding'],[2.4,'ding'],[3.6,'ding']]},
+ {d:8,bg:KBG,tr:'whip',a:[['p_tier',.5,.86,.16,'float',{sh:0}]],tx:[[0,8,'Reasons I love her','彼女の好きなところ','pill',.18],[1.2,8,'her laugh: S','笑い声：S','tag',.28],[2.4,8,'her tier lists: S','格付けセンス：S','tag',.37],[3.6,8,'the watch: S','時計のプレゼント：S','tag',.46]],sx:[[1.2,'ding'],[2.4,'ding'],[3.6,'ding']]},
  {d:6,bg:'stream',tr:'cut',a:[['c_asmon_5',.5,.9,.44,'talk']],tx:[[0,6,'B tier: …','Bランク：…','pill',.2],[2,6,'(there is no B tier)','（Bランクは存在しない）','bub',.32,{x:.5,tx:.5,ty:.46,who:'asmon'}]],sx:[[0,'crickets'],[2,'boing']]},
  {d:7,bg:'stream',tr:'zoom',a:[['asmon_couple_2',.3,.88,.42,'bob'],['kaise_3',.72,.88,.44,'hop']],fx:[['hearts',0,7,{x:.5,y:.5,n:12}],['confetti',.5,7,{n:30}]],tx:[[0,7,'Okay, that’s actually S tier 😭','これは本当にSランクだよ😭','bub',.28,{x:.62,tx:.72,ty:.46,who:'kaise'}]],sx:[[0,'aww'],[.5,'cheer']]}
 ]}

diff --git a/pincopop/js/app.js b/pincopop/js/app.js
@@ -260,7 +260,7 @@ const APP=(()=>{
  function exitMine(){stopSlot(cur());AU.stop();const c=col.prev||'all';cat='__';setCat(c);openMine(col.kind)}
  $('mineBtn').onclick=e=>{e.stopPropagation();unlockAudio();openMine()};
  // ---------- tabs / language ----------
- const CATS=['all','tokyo','food','comedy','parent','makeup','preg','lng','couple'];
+ const CATS=['all','tokyo','la','food','comedy','parent','makeup','preg','lng','couple'];
  function buildTabs(){if(cat==='mine'){$('tabs').innerHTML=`<button class="tab on mineb" type="button" data-c="__back">${GL.back}<span>${T(col.kind==='liked'?'likedV':'savedV')}</span></button><i id="tabInd"></i>`;$('tabs').querySelector('.tab').onclick=e=>{e.stopPropagation();if(hzAnim||ptr)return;exitMine()};requestAnimationFrame(()=>placeInd(cat,cat,0,false));return}
   const cs=st.gold?CATS.concat('secret'):CATS;$('tabs').innerHTML=cs.map(k=>`<button class="tab ${k===cat?'on':''} ${k==='secret'?'gold':''}" type="button" role="tab" data-c="${k}">${T(k==='all'?'foryou':k)}</button>`).join('')+'<i id="tabInd"></i>';
   $('tabs').querySelectorAll('.tab').forEach(b=>b.onclick=e=>{e.stopPropagation();if(hzAnim||ptr)return;unlockAudio();setCat(b.dataset.c)});requestAnimationFrame(()=>placeInd(cat,cat,0,false))}
